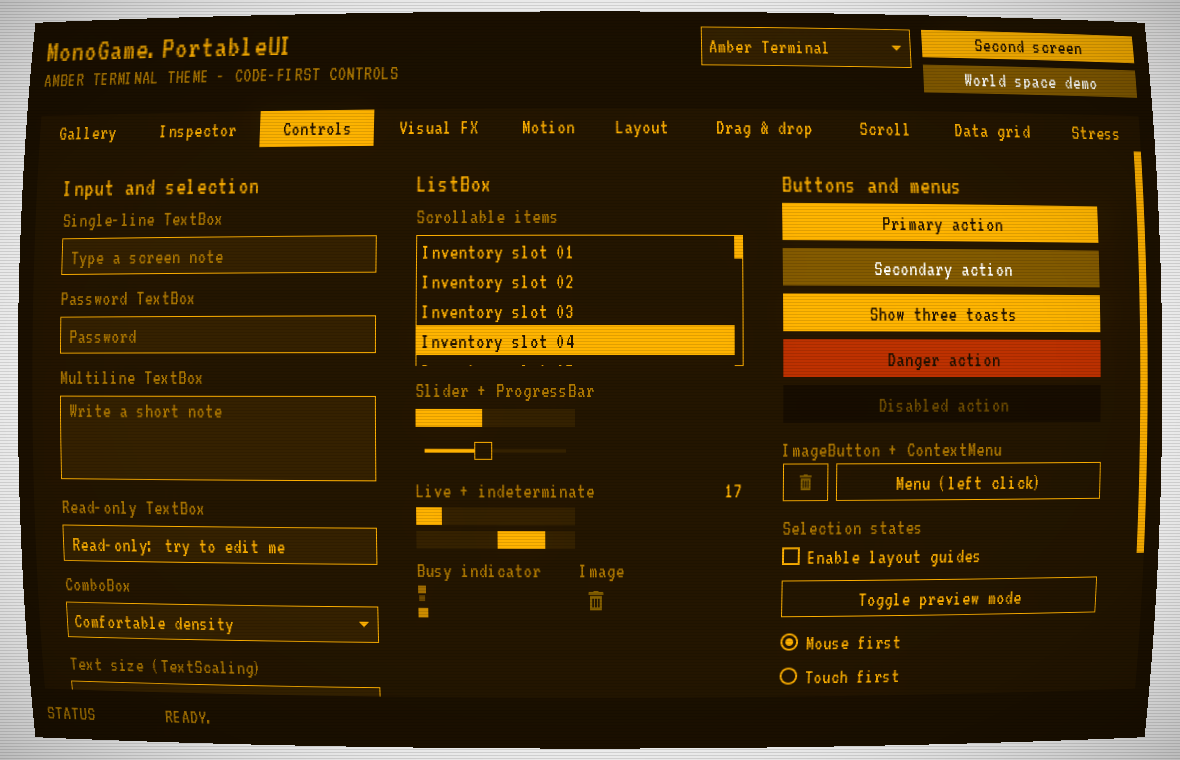
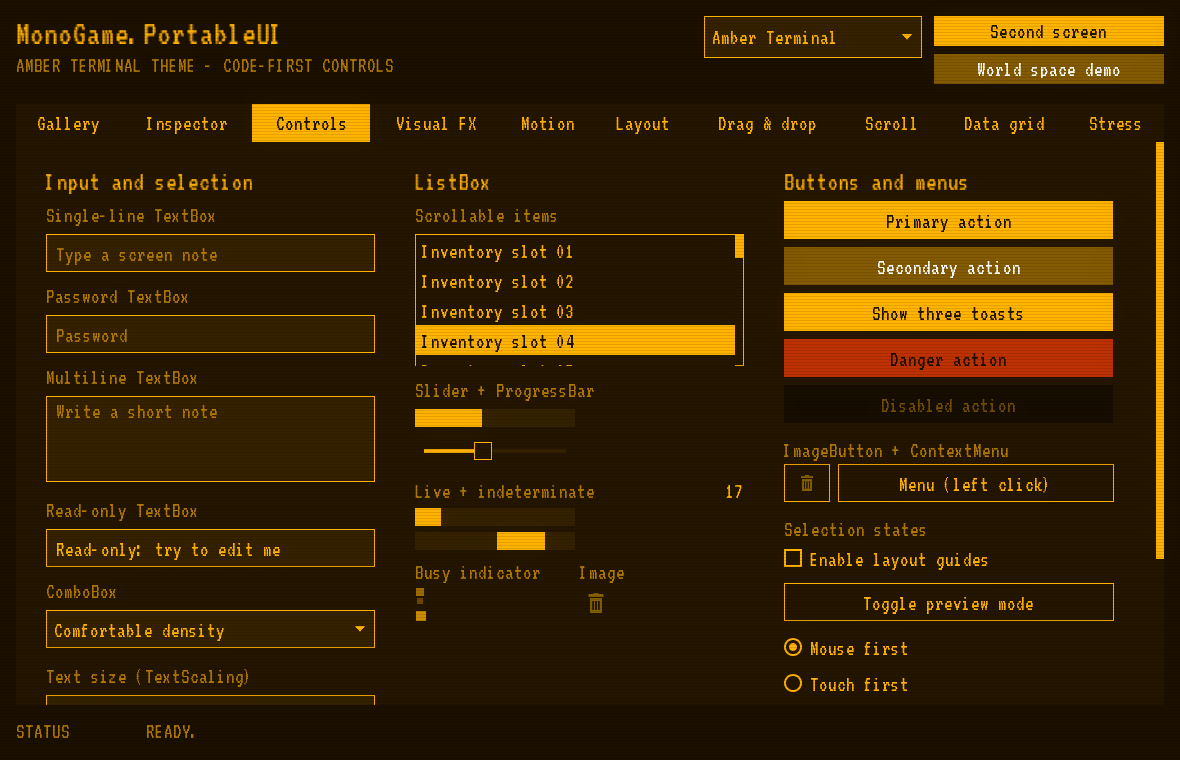
fix: CRT curvature only on the world-space monitor (CRT/LCD switch), not in the Amber and Phosphor themes
Claude-Session: https://claude.ai/code/session_01Ro8qpETjdhN6SnCkuTsELw

diff --git a/samples/MonoGame.PortableUI.Demo/WorldSpaceScreen.cs b/samples/MonoGame.PortableUI.Demo/WorldSpaceScreen.cs
@@ -179,8 +179,11 @@ namespace MonoGame.PortableUI.Demo
                 }
             };
             bar.AddChild(_status);
-            // The CRT look belongs to the monitor, not the theme: any theme can be shown curved.
-            var crt = new TextButton("CRT monitor: off")
+            // The display type belongs to the monitor, not the theme: a CRT curves and scanlines
+            // whatever theme it shows, an LCD shows it flat. Starts as a CRT.
+            var crtEffects = new PostEffect[] { new ScanlinePostEffect { Strength = 0.08f }, new CrtBarrelPostEffect { Distortion = 0.08f } };
+            _computerSurface.PostEffects = crtEffects;
+            var crt = new TextButton("Display: CRT")
             {
                 Height = 36,
                 Margin = new Thickness(0, 8, 8, 8),
@@ -189,11 +192,9 @@ namespace MonoGame.PortableUI.Demo
             };
             crt.Click += (sender, args) =>
             {
-                var on = _computerSurface.PostEffects.Count == 0;
-                _computerSurface.PostEffects = on
-                    ? new PostEffect[] { new ScanlinePostEffect { Strength = 0.08f }, new CrtBarrelPostEffect { Distortion = 0.08f } }
-                    : System.Array.Empty<PostEffect>();
-                crt.Text = on ? "CRT monitor: on" : "CRT monitor: off";
+                var toCrt = _computerSurface.PostEffects.Count == 0;
+                _computerSurface.PostEffects = toCrt ? crtEffects : System.Array.Empty<PostEffect>();
+                crt.Text = toCrt ? "Display: CRT" : "Display: LCD";
             };
             bar.AddChild(crt, column: 1);
             var back = new TextButton("Back to demo")

diff --git a/src/MonoGame.PortableUI.Themes/Themes/PhosphorTheme.cs b/src/MonoGame.PortableUI.Themes/Themes/PhosphorTheme.cs
@@ -14,7 +14,6 @@ public static class PhosphorTheme
                 theme.PostEffects = new PostEffect[]
                 {
                     new ScanlinePostEffect { Strength = 0.12f },
-                    new CrtBarrelPostEffect { Distortion = 0.06f },
                     new BloomPostEffect { Strength = 0.18f }
                 };
             });

diff --git a/src/MonoGame.PortableUI.Themes/Themes/AmberTheme.cs b/src/MonoGame.PortableUI.Themes/Themes/AmberTheme.cs
@@ -14,7 +14,6 @@ public static class AmberTheme
                 theme.PostEffects = new PostEffect[]
                 {
                     new ScanlinePostEffect { Strength = 0.12f },
-                    new CrtBarrelPostEffect { Distortion = 0.06f },
                     new BloomPostEffect { Strength = 0.18f }
                 };
             });

diff --git a/CHANGELOG.md b/CHANGELOG.md
@@ -4,7 +4,7 @@
 
 - **Button variants:** `Button.Variant` (Primary/Secondary/Danger) styled by the new `PortableTheme.PrimaryButton`/`SecondaryButton`/`DangerButton` slots, so call-to-action buttons follow the theme instead of a flat fill.
 - **Chrome brushes:** `ChamferBrush` (cut corners, gradients, accent bar), `FrameBrush` (concentric rings, notched pixel corners), chained shadows (`ShadowStyle.Also`), bevel lines scaled under `LayoutScale` (`BrushContext.Scale`).
-- **Display effects:** `ScreenEngineOptions.PostEffects` / `UISurface.PostEffects` hold effects of the screen the UI is shown on (e.g. an in-world CRT's curvature and scanlines). They run after the theme's effects and survive theme changes; pointer input follows the curvature. The world-space demo has a "CRT monitor" toggle.
+- **Display effects:** `ScreenEngineOptions.PostEffects` / `UISurface.PostEffects` hold effects of the screen the UI is shown on (e.g. an in-world CRT's curvature and scanlines). They run after the theme's effects and survive theme changes; pointer input follows the curvature. Amber and Phosphor no longer curve the flat screen; the world-space demo monitor is a CRT by default and switches to LCD.
 - **Copyable themes:** `ThemeBuilder` moved into the core library, so each theme file depends only on MonoGame.PortableUI and can be copied alone (see `Themes/README.md`).
 - **Themes:** Windows 95, XP Luna, Aero, Aqua, E-Ink, Mac 1-bit, Game Boy and Neumorphism reworked to match their originals; five new game UI themes (Sci-Fi HUD, Dark Fantasy RPG, Cozy Casual, Tactical Ops, Phantom Strike) with four new OFL fonts — 42 themes in total.
 - **Fix:** `TextBox` draws its theme's border, corner radius and shadows, not only the fill.
